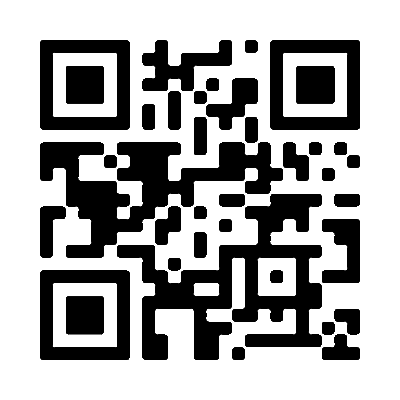
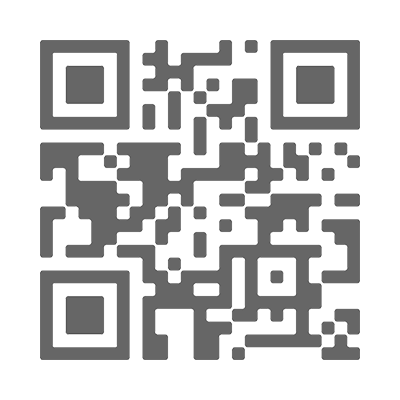
up

diff --git a/446albert_waterloo.html b/446albert_waterloo.html
@@ -199,7 +199,7 @@ height: 38px;
 
     <a 
     class="memorandum_application">
-    <img src="######################" alt="QR Sharing app" style="height: 60px;">
+    <img src="./446_albert/app_qr_446_albert.png" alt="QR Sharing app" style="height: 60px;">
 </a>
     </div>
     
